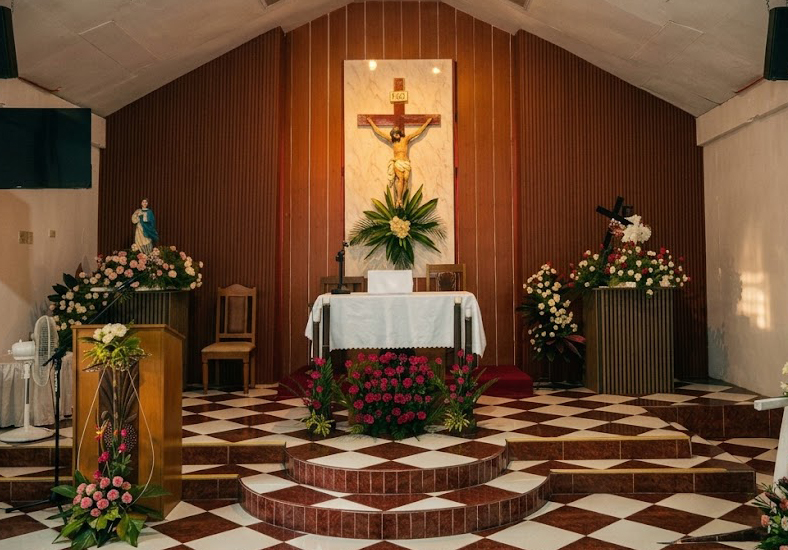
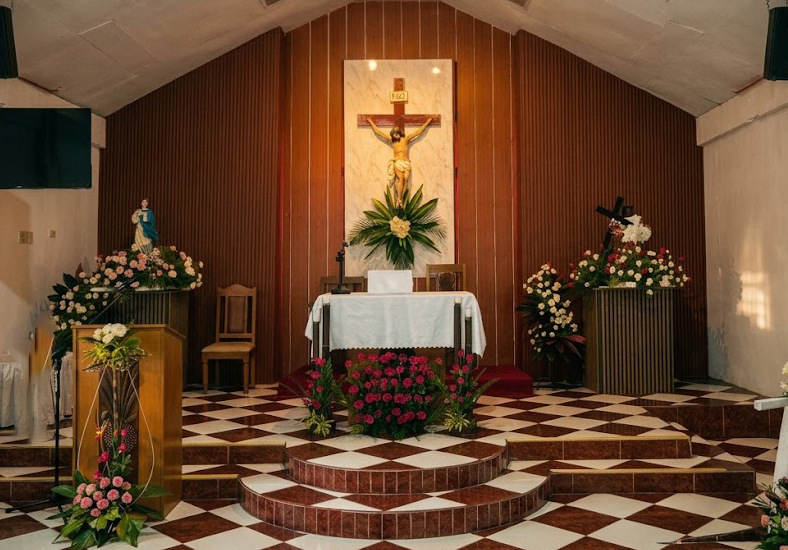
Refactor code structure for improved readability and maintainability

Changed region(s): [[0.0, 0.5564, 0.0914, 0.8345]]

diff --git a/styles.css b/styles.css
@@ -1,17 +1,48 @@
 * {
+    outline: 2px solid red;
+}
+
+
+* {
   margin: 0;
   padding: 0;
   box-sizing: border-box;
+  font-family: system-ui, -apple-system, BlinkMacSystemFont, 'Segoe UI', Roboto, Oxygen, Ubuntu, Cantarell, 'Open Sans', 'Helvetica Neue', sans-serif
 }
 
 .container {
   display: flex;
+  width: 100%;
+  flex-direction: column;
+  background-image: url(images/altar.jpg);
+  background-image: linear-gradient(rgba(255, 255, 255, 0.05), rgba(255, 255, 255, 0.05)), url('images/altar.jpg');
+  background-position: center;
+}
 
+.texts {
+  display: flex;
+  flex-direction: column;
+  width: 100%;
+  align-items: center;
+  margin-top: 80px;
+  color:  white;
+  margin-bottom: 180px;
+}
+
+.text2{
+  font-size: 25px;
+  font-weight: bold;
+}
+
+.logo{
+  display: flex;
+  justify-content: center;
+  width: 50px;
 }
 
 .logon {
-    font family: segoe ui;
+    font-family: arial, sans-serif;
     font-size: 28px;
     font-weight: 700;
-    olor: #1c2a39;
+    color: #1c2a39;
 }

diff --git a/index.html b/index.html
@@ -12,20 +12,19 @@
 <body>
 
     <div class="container">
-        <div class="header">
-            <h2>Malipayong pag abot sa atong simbahan</h2>
-            <h1>Welcome to our Church</h1>
-            <h2> Connect. Grow. Serve.</h2>
-        </div>
-
-        <div class="login-panel">
-            <div class="logon">Log on</div>
-        
-        </div>
+            <div class="texts">
+                <div class="text1">Malipayong pag abot sa atong simbahan</div>
+                <div class="text2">Welcome to our Church</div>
+                <div class="text3">Connect. Grow. Serve.</div>
+            </div>
     </div>
 
-
-
+    <div class="login-panel">
+                <img class="logo" src="images/logo.png">
+                <div class="logon">Log on</div>
+    </div>
+ </div>
+            
 
 </body>
 </html>
